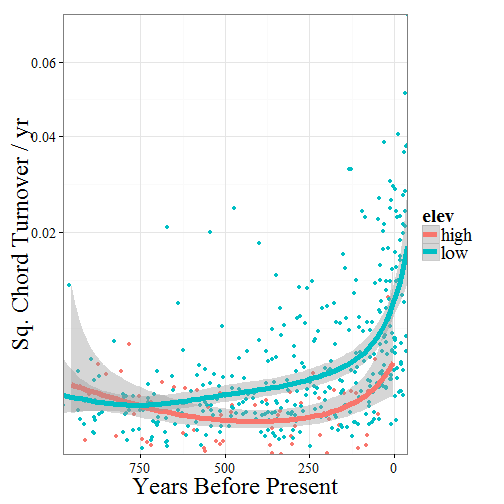
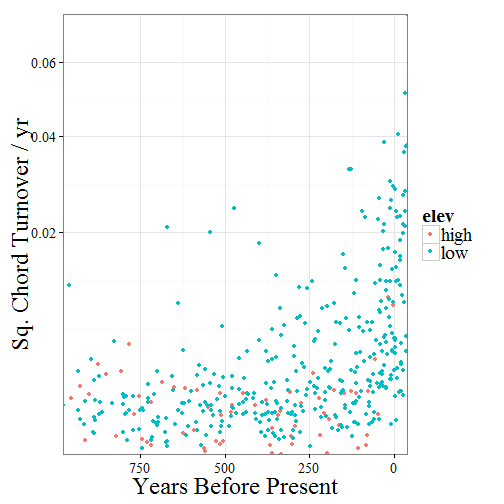
Major revisions nd updates.  No changes to the underlying analysis, but some plotting changes.

Changed region(s): [[0.119, 0.4167, 0.8929, 0.8631]]

diff --git a/ManipulatingPollen/manipulating.pollen.html b/ManipulatingPollen/manipulating.pollen.html
@@ -190,7 +190,7 @@ hljs.initHighlightingOnLoad();
 
 <p>The central thesis for our project is that there might be differences between turnover rates in high and low elevation sites.  Turnover is simply a metric of dissimilarity, and we can use squared-chord dissimilarity to do this:</p>
 
-<p>\[  diss_{ij} = \sum\limits_{k=1}^n \left ({{p_{ik}}^{1/2} - {p_{jk}}^{1/2}}  \right )^2  \]</p>
+<p>\[ diss_{ij} = \sum\limits_{k=1}^n \left ({{p_{ik}}^{1/2} - {p_{jk}}^{1/2}}  \right )^2 \]</p>
 
 <p>Of course, it is important to note that the number of taxa used can have a significant impact on the estimate of dissimilarity.  So one site with only two taxa could have much different baselines of dissimilarity than a site with one hundred taxa.  Since investgator skill (as a proxy for taxonomic specificity) can impact the taxa reported it would be best for us to use standardized taxonomy for analyis.  In the package we (with lots of help from <em><strong>Jeremiah Marsicek</strong></em>) have developed several taxon equivalencies from the published literature.  These are embedded in the function <code>compile_list</code>.</p>
 
@@ -307,43 +307,25 @@ dissim.time &lt;- rbind(ldply(new.high, get_dissim, elev = &quot;high&quot;), ld
 dissim.time &lt;- dissim.time[dissim.time$long &lt; -20 &amp; dissim.time$lat &gt; 20, ]
 
 ggplot(dissim.time, aes(x = midpoint, y = dissim, color = elev)) + geom_point() + 
-    scale_x_reverse(expand = c(0, 0)) + scale_y_sqrt(expand = c(0, 0)) + geom_smooth(method = &quot;gam&quot;, 
-    family = Gamma, formula = y ~ s(x), size = 2) + theme_bw() + theme(text = element_text(size = 24, 
-    family = &quot;serif&quot;), axis.text = element_text(size = 14, family = &quot;serif&quot;)) + 
-    xlab(&quot;Years Before Present&quot;) + ylab(&quot;Sq. Chord Turnover / yr&quot;)
+    scale_x_reverse(expand = c(0, 0)) + scale_y_sqrt(expand = c(0, 0)) + # geom_smooth(method=&#39;gam&#39;, family=Gamma, formula = y ~ s(x), size = 2) +
+theme_bw() + theme(text = element_text(size = 24, family = &quot;serif&quot;), axis.text = element_text(size = 14, 
+    family = &quot;serif&quot;)) + xlab(&quot;Years Before Present&quot;) + ylab(&quot;Sq. Chord Turnover / yr&quot;)
 </code></pre>
 
-<pre><code>## Warning: the matrix is either rank-deficient or indefinite Warning: the
-## matrix is either rank-deficient or indefinite
-</code></pre>
[1 lines of base64/hex data omitted]
 
[1 lines of base64/hex data omitted]
-
-<p>So it looks like there&#39;s a difference.  Low elevation sites seem to have overall higher turnover through the last 1000 years (possibly due to higher overal diversity of pollen taxa), but in particular the last 100 years show a significant change.  </p>
+<p>I don&#39;t want to plot the curve yet until we test for the best fit model, but low elevation sites seem to have overall higher turnover through the last 1000 years (possibly due to higher overall diversity of pollen taxa), but in particular the last 100 years show what appears to be a significant increase in turnover.</p>
 
 <pre><code class="r">
 model.0 &lt;- gam(dissim ~ 1, data = dissim.time, family = Gamma)
 model.1 &lt;- gam(dissim ~ s(midpoint), data = dissim.time, family = Gamma)
+model.2 &lt;- gam(dissim ~ s(midpoint) + elev, data = dissim.time, family = Gamma)
+model.3 &lt;- gam(dissim ~ s(midpoint, by = elev), data = dissim.time, family = Gamma)
 </code></pre>
 
-<pre><code>## Warning: the matrix is either rank-deficient or indefinite
-</code></pre>
+<p>So now that the models are built, lets look at the model results to see which model we ultimately accept:</p>
 
-<pre><code class="r">model.2 &lt;- gam(dissim ~ s(midpoint) + elev, data = dissim.time, family = Gamma)
-</code></pre>
-
-<pre><code>## Warning: the matrix is either rank-deficient or indefinite
-</code></pre>
-
-<pre><code class="r">model.3 &lt;- gam(dissim ~ s(midpoint, by = elev), data = dissim.time, family = Gamma)
-</code></pre>
-
-<pre><code>## Warning: the matrix is either rank-deficient or indefinite Warning: the
-## matrix is either rank-deficient or indefinite
-</code></pre>
-
-<pre><code class="r">
-anova(model.0, model.1, test = &quot;F&quot;)
+<pre><code class="r">anova(model.0, model.1, test = &quot;F&quot;)
 </code></pre>
 
 <pre><code>## Analysis of Deviance Table
@@ -395,9 +377,11 @@ anova(model.0, model.1, test = &quot;F&quot;)
 
 <p>So, the rates of change have increased uniformly for both high and low sites, but lower sites have uniformly higher baseline rates of turnover and an increase in turnover rates since ~250ybp (since <code>model.0</code> was rejected).</p>
 
[1 lines of base64/hex data omitted]
+
 <hr/>
 
-<p><strong>Navigation - <a href="https://github.com/SimonGoring/Neotoma-Workshop_Oct2013/blob/master/README.md">Home</a> - <a href="https://github.com/SimonGoring/Neotoma-Workshop_Oct2013/blob/master/IntroToR/IntroR_1.md">Intro to R</a> - <a href="https://github.com/SimonGoring/Neotoma-Workshop_Oct2013/blob/master/WebServices/WebServices.md">Web Services &amp; APIs</a> - <a href="https://github.com/SimonGoring/Neotoma-Workshop_Oct2013/blob/master/BasicSearches/BasicSearches.md">Basic Search</a> - <a href="https://github.com/SimonGoring/Neotoma-Workshop_Oct2013/blob/master/PollenObjects/PollenObjects.md">Pollen Objects</a> - <a href="https://github.com/SimonGoring/Neotoma-Workshop_Oct2013/blob/master/ManipulatingPollen/manipulating.pollen.md">Manipulating Pollen</a></strong></p>
+<p><strong>Navigation - <a href="https://github.com/SimonGoring/Neotoma-Workshop_Oct2013/blob/master/README.md">Home</a> - <a href="https://github.com/SimonGoring/Neotoma-Workshop_Oct2013/blob/master/IntroToR/IntroR_1.md">Intro to R</a> - <a href="https://github.com/SimonGoring/Neotoma-Workshop_Oct2013/blob/master/WebServices/WebServices.md">Web Services &amp; APIs</a> - <a href="https://github.com/SimonGoring/Neotoma-Workshop_Oct2013/blob/master/BasicSearches/BasicSearches.md">Basic Search</a> - <a href="https://github.com/SimonGoring/Neotoma-Workshop_Oct2013/blob/master/PollenObjects.md">Pollen Objects</a> - <a href="https://github.com/SimonGoring/Neotoma-Workshop_Oct2013/blob/master/ManipulatingPollen.md">Manipulating Pollen</a></strong></p>
 
 </body>
 

diff --git a/PollenObjects/PollenObjects.html b/PollenObjects/PollenObjects.html
@@ -4,7 +4,7 @@
 <head>
 <meta http-equiv="Content-Type" content="text/html; charset=utf-8"/>
 
-<title><strong>Navigation - <a href="https://github.com/SimonGoring/Neotoma-Workshop_Oct2013/blob/master/README.md">Home</a> - <a href="https://github.com/SimonGoring/Neotoma-Workshop_Oct2013/blob/master/IntroToR/IntroR_1.md">Intro to R</a> - <a href="https://github.com/SimonGoring/Neotoma-Workshop_Oct2013/blob/master/WebServices/WebServices.md">Web Services &amp; APIs</a> - <a href="https://github.com/SimonGoring/Neotoma-Workshop_Oct2013/blob/master/BasicSearches/BasicSearches.md">Basic Search</a> - <a href="https://github.com/SimonGoring/Neotoma-Workshop_Oct2013/blob/master/PollenObjects.md">Pollen Objects</a> - <a href="https://github.com/SimonGoring/Neotoma-Workshop_Oct2013/blob/master/ManipulatingPollen.md">Manipulating Pollen</a></strong></title>
+<title>What is a &#39;Pollen Object&#39; and how do I get one?</title>
 
 <style type="text/css">
 body, td {
@@ -178,7 +178,9 @@ hljs.initHighlightingOnLoad();
 </head>
 
 <body>
-<h2><strong>Navigation - <a href="https://github.com/SimonGoring/Neotoma-Workshop_Oct2013/blob/master/README.md">Home</a> - <a href="https://github.com/SimonGoring/Neotoma-Workshop_Oct2013/blob/master/IntroToR/IntroR_1.md">Intro to R</a> - <a href="https://github.com/SimonGoring/Neotoma-Workshop_Oct2013/blob/master/WebServices/WebServices.md">Web Services &amp; APIs</a> - <a href="https://github.com/SimonGoring/Neotoma-Workshop_Oct2013/blob/master/BasicSearches/BasicSearches.md">Basic Search</a> - <a href="https://github.com/SimonGoring/Neotoma-Workshop_Oct2013/blob/master/PollenObjects.md">Pollen Objects</a> - <a href="https://github.com/SimonGoring/Neotoma-Workshop_Oct2013/blob/master/ManipulatingPollen.md">Manipulating Pollen</a></strong></h2>
+<p><strong>Navigation - <a href="https://github.com/SimonGoring/Neotoma-Workshop_Oct2013/blob/master/README.md">Home</a> - <a href="https://github.com/SimonGoring/Neotoma-Workshop_Oct2013/blob/master/IntroToR/IntroR_1.md">Intro to R</a> - <a href="https://github.com/SimonGoring/Neotoma-Workshop_Oct2013/blob/master/WebServices/WebServices.md">Web Services &amp; APIs</a> - <a href="https://github.com/SimonGoring/Neotoma-Workshop_Oct2013/blob/master/BasicSearches/BasicSearches.md">Basic Search</a> - <a href="https://github.com/SimonGoring/Neotoma-Workshop_Oct2013/blob/master/PollenObjects.md">Pollen Objects</a> - <a href="https://github.com/SimonGoring/Neotoma-Workshop_Oct2013/blob/master/ManipulatingPollen.md">Manipulating Pollen</a></strong></p>
+
+<hr/>
 
 <h1>What is a &#39;Pollen Object&#39; and how do I get one?</h1>
 
@@ -337,7 +339,7 @@ low.pol &lt;- get_download(sapply(low.el, function(x) x$DatasetID))
 
 <hr/>
 
-<p><strong>Navigation - <a href="https://github.com/SimonGoring/Neotoma-Workshop_Oct2013/blob/master/README.md">Home</a> - <a href="https://github.com/SimonGoring/Neotoma-Workshop_Oct2013/blob/master/IntroToR/IntroR_1.md">Intro to R</a> - <a href="https://github.com/SimonGoring/Neotoma-Workshop_Oct2013/blob/master/WebServices/WebServices.md">Web Services &amp; APIs</a> - <a href="https://github.com/SimonGoring/Neotoma-Workshop_Oct2013/blob/master/BasicSearches/BasicSearches.md">Basic Search</a> - <a href="https://github.com/SimonGoring/Neotoma-Workshop_Oct2013/blob/master/PollenObjects/PollenObjects.md">Pollen Objects</a> - <a href="https://github.com/SimonGoring/Neotoma-Workshop_Oct2013/blob/master/ManipulatingPollen/manipulating.pollen.md">Manipulating Pollen</a></strong></p>
+<p><strong>Navigation - <a href="https://github.com/SimonGoring/Neotoma-Workshop_Oct2013/blob/master/README.md">Home</a> - <a href="https://github.com/SimonGoring/Neotoma-Workshop_Oct2013/blob/master/IntroToR/IntroR_1.md">Intro to R</a> - <a href="https://github.com/SimonGoring/Neotoma-Workshop_Oct2013/blob/master/WebServices/WebServices.md">Web Services &amp; APIs</a> - <a href="https://github.com/SimonGoring/Neotoma-Workshop_Oct2013/blob/master/BasicSearches/BasicSearches.md">Basic Search</a> - <a href="https://github.com/SimonGoring/Neotoma-Workshop_Oct2013/blob/master/PollenObjects.md">Pollen Objects</a> - <a href="https://github.com/SimonGoring/Neotoma-Workshop_Oct2013/blob/master/ManipulatingPollen.md">Manipulating Pollen</a></strong></p>
 
 </body>
 

diff --git a/WebServices/WebServices.html b/WebServices/WebServices.html
@@ -4,7 +4,7 @@
 <head>
 <meta http-equiv="Content-Type" content="text/html; charset=utf-8"/>
 
-<title><strong>Navigation - <a href="https://github.com/SimonGoring/Neotoma-Workshop_Oct2013/blob/master/README.md">Home</a> - <a href="https://github.com/SimonGoring/Neotoma-Workshop_Oct2013/blob/master/IntroToR/IntroR_1.md">Intro to R</a> - <a href="https://github.com/SimonGoring/Neotoma-Workshop_Oct2013/blob/master/WebServices/WebServices.md">Web Services &amp; APIs</a> - <a href="https://github.com/SimonGoring/Neotoma-Workshop_Oct2013/blob/master/BasicSearches/BasicSearches.md">Basic Search</a> - <a href="https://github.com/SimonGoring/Neotoma-Workshop_Oct2013/blob/master/PollenObjects.md">Pollen Objects</a> - <a href="https://github.com/SimonGoring/Neotoma-Workshop_Oct2013/blob/master/ManipulatingPollen.md">Manipulating Pollen</a></strong></title>
+<title>Using Web Services and the Neotoma API</title>
 
 <style type="text/css">
 body, td {
@@ -178,7 +178,9 @@ hljs.initHighlightingOnLoad();
 </head>
 
 <body>
-<h2><strong>Navigation - <a href="https://github.com/SimonGoring/Neotoma-Workshop_Oct2013/blob/master/README.md">Home</a> - <a href="https://github.com/SimonGoring/Neotoma-Workshop_Oct2013/blob/master/IntroToR/IntroR_1.md">Intro to R</a> - <a href="https://github.com/SimonGoring/Neotoma-Workshop_Oct2013/blob/master/WebServices/WebServices.md">Web Services &amp; APIs</a> - <a href="https://github.com/SimonGoring/Neotoma-Workshop_Oct2013/blob/master/BasicSearches/BasicSearches.md">Basic Search</a> - <a href="https://github.com/SimonGoring/Neotoma-Workshop_Oct2013/blob/master/PollenObjects.md">Pollen Objects</a> - <a href="https://github.com/SimonGoring/Neotoma-Workshop_Oct2013/blob/master/ManipulatingPollen.md">Manipulating Pollen</a></strong></h2>
+<p><strong>Navigation - <a href="https://github.com/SimonGoring/Neotoma-Workshop_Oct2013/blob/master/README.md">Home</a> - <a href="https://github.com/SimonGoring/Neotoma-Workshop_Oct2013/blob/master/IntroToR/IntroR_1.md">Intro to R</a> - <a href="https://github.com/SimonGoring/Neotoma-Workshop_Oct2013/blob/master/WebServices/WebServices.md">Web Services &amp; APIs</a> - <a href="https://github.com/SimonGoring/Neotoma-Workshop_Oct2013/blob/master/BasicSearches/BasicSearches.md">Basic Search</a> - <a href="https://github.com/SimonGoring/Neotoma-Workshop_Oct2013/blob/master/PollenObjects.md">Pollen Objects</a> - <a href="https://github.com/SimonGoring/Neotoma-Workshop_Oct2013/blob/master/ManipulatingPollen.md">Manipulating Pollen</a></strong></p>
+
+<hr/>
 
 <h1>Using Web Services and the Neotoma API</h1>
 
@@ -218,7 +220,7 @@ hljs.initHighlightingOnLoad();
 
 <p>If you can figure that out, try to play around with some of the other API calls using a browser.  Once you see how silly it is to do that over and over again, let&#39;s move to R:</p>
 
-<p><strong><a href="../BasicSearches/BasicSearches.md">Basic Search</a></strong></p>
+<p><strong>Navigation - <a href="https://github.com/SimonGoring/Neotoma-Workshop_Oct2013/blob/master/README.md">Home</a> - <a href="https://github.com/SimonGoring/Neotoma-Workshop_Oct2013/blob/master/IntroToR/IntroR_1.md">Intro to R</a> - <a href="https://github.com/SimonGoring/Neotoma-Workshop_Oct2013/blob/master/WebServices/WebServices.md">Web Services &amp; APIs</a> - <a href="https://github.com/SimonGoring/Neotoma-Workshop_Oct2013/blob/master/BasicSearches/BasicSearches.md">Basic Search</a> - <a href="https://github.com/SimonGoring/Neotoma-Workshop_Oct2013/blob/master/PollenObjects.md">Pollen Objects</a> - <a href="https://github.com/SimonGoring/Neotoma-Workshop_Oct2013/blob/master/ManipulatingPollen.md">Manipulating Pollen</a></strong></p>
 
 </body>
 

diff --git a/ManipulatingPollen/manipulating.pollen.md b/ManipulatingPollen/manipulating.pollen.md
@@ -10,7 +10,7 @@ Manipulating pollen objects, compressing lists.
 
 The central thesis for our project is that there might be differences between turnover rates in high and low elevation sites.  Turnover is simply a metric of dissimilarity, and we can use squared-chord dissimilarity to do this:
 
-$$ diss_{ij} = \sum\limits_{k=1}^n \left ({{p_{ik}}^{1/2} - {p_{jk}}^{1/2}}  \right )^2 $$
+$$diss_{ij} = \sum\limits_{k=1}^n \left ({{p_{ik}}^{1/2} - {p_{jk}}^{1/2}}  \right )^2$$
 
 Of course, it is important to note that the number of taxa used can have a significant impact on the estimate of dissimilarity.  So one site with only two taxa could have much different baselines of dissimilarity than a site with one hundred taxa.  Since investgator skill (as a proxy for taxonomic specificity) can impact the taxa reported it would be best for us to use standardized taxonomy for analyis.  In the package we (with lots of help from _**Jeremiah Marsicek**_) have developed several taxon equivalencies from the published literature.  These are embedded in the function `compile_list`.
 
@@ -119,52 +119,30 @@ dissim.time <- dissim.time[rowSums(is.na(dissim.time)) == 0 & is.finite(dissim.t
 dissim.time <- dissim.time[dissim.time$long < -20 & dissim.time$lat > 20, ]
 
 ggplot(dissim.time, aes(x = midpoint, y = dissim, color = elev)) + geom_point() + 
-    scale_x_reverse(expand = c(0, 0)) + scale_y_sqrt(expand = c(0, 0)) + geom_smooth(method = "gam", 
-    family = Gamma, formula = y ~ s(x), size = 2) + theme_bw() + theme(text = element_text(size = 24, 
-    family = "serif"), axis.text = element_text(size = 14, family = "serif")) + 
-    xlab("Years Before Present") + ylab("Sq. Chord Turnover / yr")
-```
-
-```
-## Warning: the matrix is either rank-deficient or indefinite Warning: the
-## matrix is either rank-deficient or indefinite
+    scale_x_reverse(expand = c(0, 0)) + scale_y_sqrt(expand = c(0, 0)) + # geom_smooth(method='gam', family=Gamma, formula = y ~ s(x), size = 2) +
+theme_bw() + theme(text = element_text(size = 24, family = "serif"), axis.text = element_text(size = 14, 
+    family = "serif")) + xlab("Years Before Present") + ylab("Sq. Chord Turnover / yr")
 ```
 
 ![plot of chunk unnamed-chunk-4](figure/unnamed-chunk-4.png) 
 
 
-So it looks like there's a difference.  Low elevation sites seem to have overall higher turnover through the last 1000 years (possibly due to higher overal diversity of pollen taxa), but in particular the last 100 years show a significant change.  
+I don't want to plot the curve yet until we test for the best fit model, but low elevation sites seem to have overall higher turnover through the last 1000 years (possibly due to higher overall diversity of pollen taxa), but in particular the last 100 years show what appears to be a significant increase in turnover.
 
 
 ```r
 
 model.0 <- gam(dissim ~ 1, data = dissim.time, family = Gamma)
 model.1 <- gam(dissim ~ s(midpoint), data = dissim.time, family = Gamma)
-```
-
-```
-## Warning: the matrix is either rank-deficient or indefinite
-```
-
-```r
 model.2 <- gam(dissim ~ s(midpoint) + elev, data = dissim.time, family = Gamma)
-```
-
-```
-## Warning: the matrix is either rank-deficient or indefinite
-```
-
-```r
 model.3 <- gam(dissim ~ s(midpoint, by = elev), data = dissim.time, family = Gamma)
 ```
 
-```
-## Warning: the matrix is either rank-deficient or indefinite Warning: the
-## matrix is either rank-deficient or indefinite
-```
+
+So now that the models are built, lets look at the model results to see which model we ultimately accept:
+
 
 ```r
-
 anova(model.0, model.1, test = "F")
 ```
 
@@ -223,6 +201,9 @@ And so, this simple exploratory work, that really took me one day to code up (al
 
 So, the rates of change have increased uniformly for both high and low sites, but lower sites have uniformly higher baseline rates of turnover and an increase in turnover rates since ~250ybp (since `model.0` was rejected).
 
+![plot of chunk unnamed-chunk-7](figure/unnamed-chunk-7.png) 
+
+
 -----------------
 
-**Navigation - [Home](https://github.com/SimonGoring/Neotoma-Workshop_Oct2013/blob/master/README.md) - [Intro to R](https://github.com/SimonGoring/Neotoma-Workshop_Oct2013/blob/master/IntroToR/IntroR_1.md) - [Web Services & APIs](https://github.com/SimonGoring/Neotoma-Workshop_Oct2013/blob/master/WebServices/WebServices.md) - [Basic Search](https://github.com/SimonGoring/Neotoma-Workshop_Oct2013/blob/master/BasicSearches/BasicSearches.md) - [Pollen Objects](https://github.com/SimonGoring/Neotoma-Workshop_Oct2013/blob/master/PollenObjects/PollenObjects.md) - [Manipulating Pollen](https://github.com/SimonGoring/Neotoma-Workshop_Oct2013/blob/master/ManipulatingPollen/manipulating.pollen.md)**
+**Navigation - [Home](https://github.com/SimonGoring/Neotoma-Workshop_Oct2013/blob/master/README.md) - [Intro to R](https://github.com/SimonGoring/Neotoma-Workshop_Oct2013/blob/master/IntroToR/IntroR_1.md) - [Web Services & APIs](https://github.com/SimonGoring/Neotoma-Workshop_Oct2013/blob/master/WebServices/WebServices.md) - [Basic Search](https://github.com/SimonGoring/Neotoma-Workshop_Oct2013/blob/master/BasicSearches/BasicSearches.md) - [Pollen Objects](https://github.com/SimonGoring/Neotoma-Workshop_Oct2013/blob/master/PollenObjects.md) - [Manipulating Pollen](https://github.com/SimonGoring/Neotoma-Workshop_Oct2013/blob/master/ManipulatingPollen.md)**

diff --git a/PollenObjects/PollenObjects.md b/PollenObjects/PollenObjects.md
@@ -1,4 +1,5 @@
 **Navigation - [Home](https://github.com/SimonGoring/Neotoma-Workshop_Oct2013/blob/master/README.md) - [Intro to R](https://github.com/SimonGoring/Neotoma-Workshop_Oct2013/blob/master/IntroToR/IntroR_1.md) - [Web Services & APIs](https://github.com/SimonGoring/Neotoma-Workshop_Oct2013/blob/master/WebServices/WebServices.md) - [Basic Search](https://github.com/SimonGoring/Neotoma-Workshop_Oct2013/blob/master/BasicSearches/BasicSearches.md) - [Pollen Objects](https://github.com/SimonGoring/Neotoma-Workshop_Oct2013/blob/master/PollenObjects.md) - [Manipulating Pollen](https://github.com/SimonGoring/Neotoma-Workshop_Oct2013/blob/master/ManipulatingPollen.md)**
+
 -------------------------------------
 
 
@@ -143,4 +144,4 @@ Now that we've got the pollen objects we want to do something with them.
 
 -----------------
 
-**Navigation - [Home](https://github.com/SimonGoring/Neotoma-Workshop_Oct2013/blob/master/README.md) - [Intro to R](https://github.com/SimonGoring/Neotoma-Workshop_Oct2013/blob/master/IntroToR/IntroR_1.md) - [Web Services & APIs](https://github.com/SimonGoring/Neotoma-Workshop_Oct2013/blob/master/WebServices/WebServices.md) - [Basic Search](https://github.com/SimonGoring/Neotoma-Workshop_Oct2013/blob/master/BasicSearches/BasicSearches.md) - [Pollen Objects](https://github.com/SimonGoring/Neotoma-Workshop_Oct2013/blob/master/PollenObjects/PollenObjects.md) - [Manipulating Pollen](https://github.com/SimonGoring/Neotoma-Workshop_Oct2013/blob/master/ManipulatingPollen/manipulating.pollen.md)**
+**Navigation - [Home](https://github.com/SimonGoring/Neotoma-Workshop_Oct2013/blob/master/README.md) - [Intro to R](https://github.com/SimonGoring/Neotoma-Workshop_Oct2013/blob/master/IntroToR/IntroR_1.md) - [Web Services & APIs](https://github.com/SimonGoring/Neotoma-Workshop_Oct2013/blob/master/WebServices/WebServices.md) - [Basic Search](https://github.com/SimonGoring/Neotoma-Workshop_Oct2013/blob/master/BasicSearches/BasicSearches.md) - [Pollen Objects](https://github.com/SimonGoring/Neotoma-Workshop_Oct2013/blob/master/PollenObjects.md) - [Manipulating Pollen](https://github.com/SimonGoring/Neotoma-Workshop_Oct2013/blob/master/ManipulatingPollen.md)**

diff --git a/WebServices/WebServices.md b/WebServices/WebServices.md
@@ -1,4 +1,5 @@
 **Navigation - [Home](https://github.com/SimonGoring/Neotoma-Workshop_Oct2013/blob/master/README.md) - [Intro to R](https://github.com/SimonGoring/Neotoma-Workshop_Oct2013/blob/master/IntroToR/IntroR_1.md) - [Web Services & APIs](https://github.com/SimonGoring/Neotoma-Workshop_Oct2013/blob/master/WebServices/WebServices.md) - [Basic Search](https://github.com/SimonGoring/Neotoma-Workshop_Oct2013/blob/master/BasicSearches/BasicSearches.md) - [Pollen Objects](https://github.com/SimonGoring/Neotoma-Workshop_Oct2013/blob/master/PollenObjects.md) - [Manipulating Pollen](https://github.com/SimonGoring/Neotoma-Workshop_Oct2013/blob/master/ManipulatingPollen.md)**
+
 -------------------------------------
 
 Using Web Services and the Neotoma API
@@ -42,4 +43,4 @@ will return a crazy wall of text.  If you look at it more closely you will see t
 
 If you can figure that out, try to play around with some of the other API calls using a browser.  Once you see how silly it is to do that over and over again, let's move to R:
 
-**[Basic Search](../BasicSearches/BasicSearches.md)**
+**Navigation - [Home](https://github.com/SimonGoring/Neotoma-Workshop_Oct2013/blob/master/README.md) - [Intro to R](https://github.com/SimonGoring/Neotoma-Workshop_Oct2013/blob/master/IntroToR/IntroR_1.md) - [Web Services & APIs](https://github.com/SimonGoring/Neotoma-Workshop_Oct2013/blob/master/WebServices/WebServices.md) - [Basic Search](https://github.com/SimonGoring/Neotoma-Workshop_Oct2013/blob/master/BasicSearches/BasicSearches.md) - [Pollen Objects](https://github.com/SimonGoring/Neotoma-Workshop_Oct2013/blob/master/PollenObjects.md) - [Manipulating Pollen](https://github.com/SimonGoring/Neotoma-Workshop_Oct2013/blob/master/ManipulatingPollen.md)**
